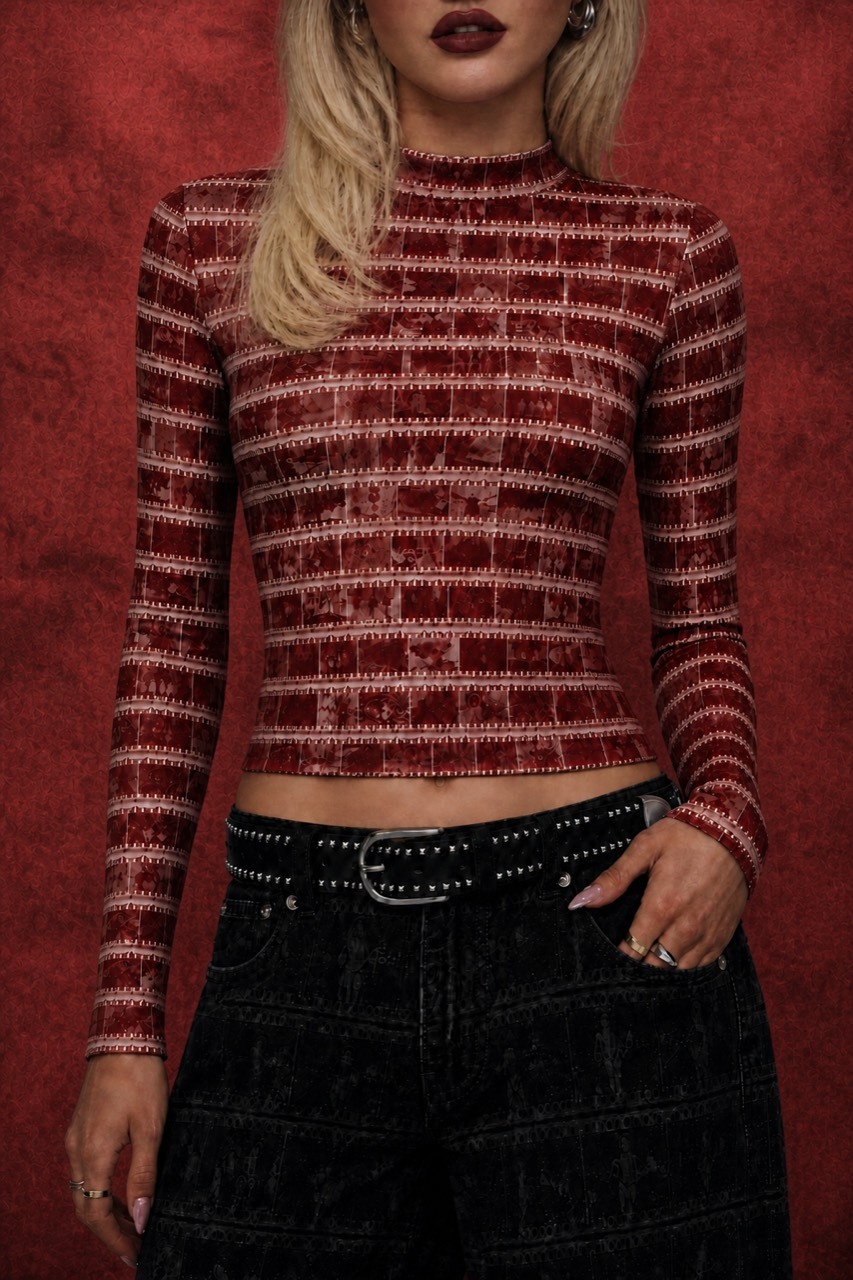
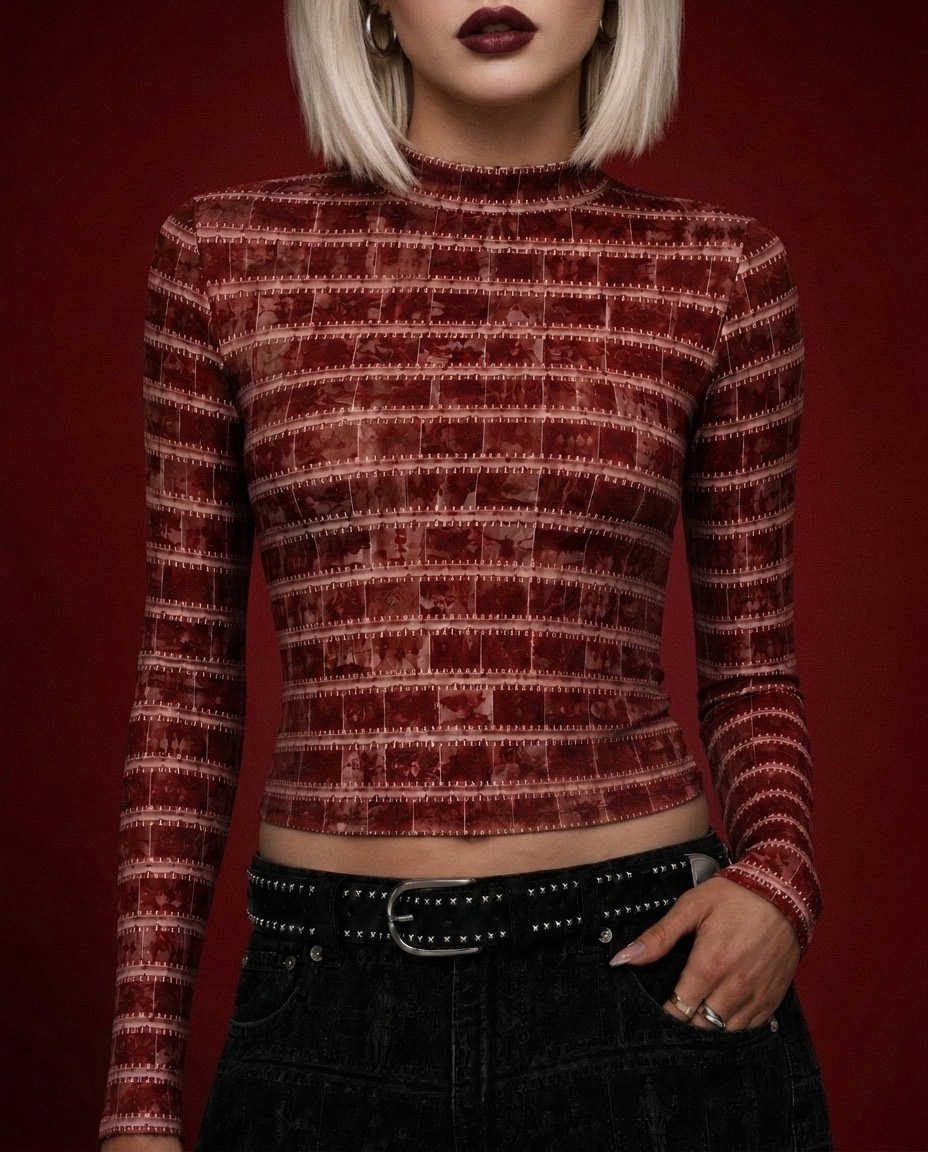
Upgrade shared Studded Belt campaign image

diff --git a/src/routes/projects.no-comply.media.tsx b/src/routes/projects.no-comply.media.tsx
@@ -20,7 +20,6 @@ import media10 from "../assets/no-comply/media/media-10-black-anorak-hood.png.as
 import portfolioVideo from "../assets/no-comply/media/no-comply-portfolio.mp4.asset.json";
 import cof01 from "../assets/no-comply/caught-on-film/cof-01-trim.png.asset.json";
 import cof02 from "../assets/no-comply/caught-on-film/cof-02.png.asset.json";
-import cof03 from "../assets/no-comply/caught-on-film/cof-03.png.asset.json";
 import cof06 from "../assets/no-comply/caught-on-film/cof-06.png.asset.json";
 import cof07 from "../assets/no-comply/caught-on-film/cof-07.png.asset.json";
 import cof08 from "../assets/no-comply/caught-on-film/cof-08.png.asset.json";
@@ -29,6 +28,7 @@ import cof10 from "../assets/no-comply/caught-on-film/cof-10.png.asset.json";
 import cof11 from "../assets/no-comply/caught-on-film/cof-11.png.asset.json";
 import onFilmScarfModel2 from "../assets/products/caught-on-film/on-film-scarf/black-white/model-2.jpg";
 import onFilmSkullCapModel1 from "../assets/products/caught-on-film/on-film-skull-cap/black-white/model-1.jpg";
+import studdedBeltBlackModel1 from "../assets/products/caught-on-film/studded-belt/black/model-1.jpg";
 import { EditorialPageShell } from "@/components/no-comply/editorial-page-shell";
 
 type MediaCollection = "command" | "caught-on-film";
@@ -95,7 +95,7 @@ const media: {
     collection: "caught-on-film",
   },
   {
-    src: cof03.url,
+    src: studdedBeltBlackModel1,
     alt: "Model in red film-strip mesh long-sleeve top with black wide-leg denim",
     collection: "caught-on-film",
   },
